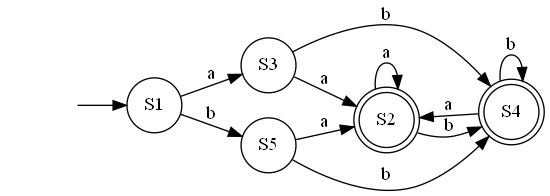
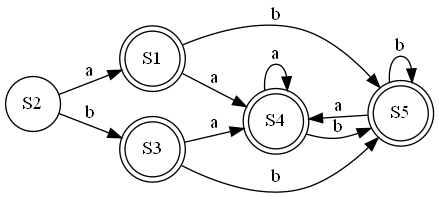
minimize dfa done

diff --git a/minimizeDFA.py b/minimizeDFA.py
@@ -1,5 +1,123 @@
+import copy
 import sys
+from graphviz import Digraph
 import jsonManager
+
+
+def fillDFAStates (DFA):
+    global dfaStates
+    for state in DFA:
+        if (state == "StartingState"):
+            continue
+        else: 
+            dfaStates.append(state)
+    
+def fillDFA_Accepting (DFA):
+    global dfaAccepting 
+    for state in DFA:
+        if (state == "StartingState"):
+            continue
+        else:
+            if DFA[state]["IsTerminating"] == True:
+                dfaAccepting.append(state)
+
+def fillRequiredData (DFA):
+    
+    global dfaStates 
+    global dfaAccepting 
+
+    fillDFAStates(DFA)
+    fillDFA_Accepting(DFA)
+
+def changeState (DFA, state1, state2):
+
+    for state in DFA:
+        if (state == "StartingState"):
+            continue
+        else:
+            for transition in DFA[state]:
+                if transition == "IsTerminating":
+                    continue     
+                else:
+                    if state1 == DFA[state][transition]:
+                        DFA[state1].update ({transition: state2})
+    DFA[state1] = DFA.pop(state2)
+          
+def  minimizeDFA(DFA):
+    
+    global dfaStates
+    global dfaAccepting
+    removed = []
+    minimized = copy.deepcopy(DFA)
+    changed = True
+    
+    while (changed):
+        changed = False
+        for state1 in dfaStates:
+            for state2 in dfaStates:
+                if state1 != state2 and state1 in minimized and state2 in minimized:
+                    if minimized[state1] == minimized[state2]:
+                        if state2 not in removed:
+                            if (state2 in dfaAccepting and state1 in dfaAccepting) or (state2 not in dfaAccepting and state1 not in dfaAccepting):
+                                
+                                removed.append(state1)
+                                removed.append(state2)
+                                changed = True
+                                
+                                if state1 == "S1":
+                                    del minimized[state2]
+                                    changeState (minimized, state2, state1)
+                                    if state2 in dfaAccepting:
+                                        dfaAccepting.remove(state1)
+                                if state2 == "S1":
+                                    del minimized[state1]
+                                    changeState (minimized, state1, state2)
+                                    if state1 in dfaAccepting:
+                                        dfaAccepting.remove(state1)
+                                else:
+                                    del minimized[state2]
+                                    changeState (minimized, state2, state1)
+                                    if state2 in dfaAccepting:
+                                        dfaAccepting.remove(state2)
+    return minimized
+
+def fillMINTransitions(MIN):
+    
+    global minTransitions
+    for state in MIN:
+        if (state == "StartingState"):
+            continue
+        else:
+            for transition in MIN[state]:
+                if (transition == "IsTerminating"):
+                    continue
+                else:
+                    for endState in MIN[state][transition]:
+                        minTransitions.append([state, transition, endState])
+
+def setTerminatingNode(graph):
+    
+    for state in jsonManager.minDFA:
+        if (state != "StartingState"):
+            if jsonManager.minDFA[state]["IsTerminating"] == False:
+                graph.attr('node', shape = 'circle')
+                graph.node(state)
+                if state == 'S1':
+                    graph.attr('node', shape='none')
+                    graph.node('')
+                    graph.edge("", state)
+            else:
+                graph.attr('node', shape = 'doublecircle')
+                graph.node(state)
+
+def setTransistions(graph):
+    global minTransitions
+    for transition in minTransitions:
+        graph.edge(transition[0], transition[2], label=transition[1])
+
+dfaStates = []
+dfaAccepting = []
+minTransitions = []
 
 file = "DFA.json"
 fileName = "minDFA.json"
@@ -10,3 +128,11 @@ if (len(sys.argv) == 6):
     picFile = sys.argv[5]
 
 jsonManager.DFA = jsonManager.readJSONFile(file)
+fillRequiredData(jsonManager.DFA)
+jsonManager.minDFA = minimizeDFA(jsonManager.DFA)
+fillMINTransitions(jsonManager.minDFA)
+finiteGraph = Digraph(graph_attr={'rankdir': 'LR'})
+setTerminatingNode(finiteGraph)
+setTransistions(finiteGraph)
+jsonManager.createJSONFile(fileName, jsonManager.minDFA)
+finiteGraph.render(picFile, view =True, format= 'png', overwrite_source= True)

diff --git a/jsonManager.py b/jsonManager.py
@@ -37,15 +37,12 @@ def addTransition(currentState: String, goingState: String, transition: String, 
         state.update({transition: [goingState]})
 
 def createNewState(state: String, stateData: Dict):
-    # check if the state is not available
+   
     if stateData.get(state) != None:
-        # if available return
         return
     else:
-        # not available create the new state
         stateData.update({state: {"IsTerminating": False}})
-        #NFA[state].update({"IsTerminating": False})
-        pass
+
 
 def createJSONFile(fileName: String, stateData: Dict): 
     with open(fileName, "w") as outfile:

diff --git a/tempCodeRunnerFile.py b/tempCodeRunnerFile.py
@@ -1,0 +1,5 @@
+if state1 == "S1":
+                                    del minimized[state2]
+                                    changeState (minimized, state2, state1)
+                                    if state2 in dfaAccepting:
+                                        dfaAccepting.remove(state2)
